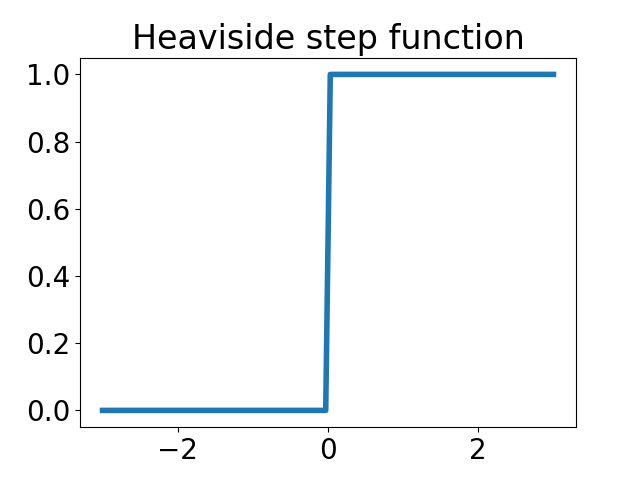
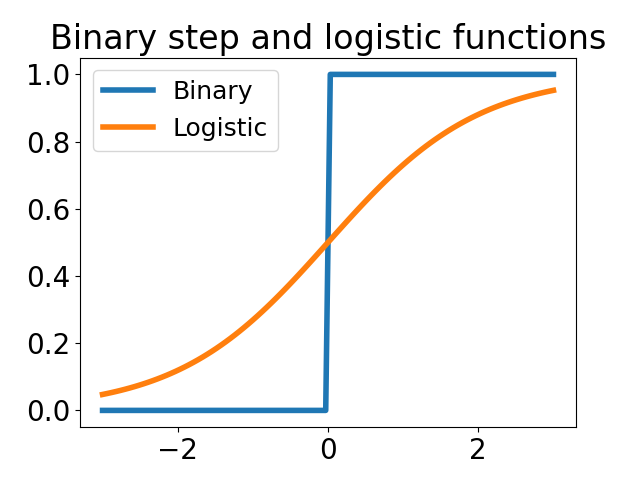
Activations.

diff --git a/differentiable_programs.md b/differentiable_programs.md
@@ -38,6 +38,11 @@ Mathieu Blondel, Vincent Roulet
 - Control flows
   * Step functions
   * Comparison operators
+  * If-else statements
+  * General conditional statements
+  * For loops
+  * Scan function
+  * While loops
 
 ---
 
@@ -67,7 +72,7 @@ $$
 
 ---
 
-## Feedforward networks = parameterized computain chains
+## Feedforward networks = parameterized computation chains
 
 .center.width-100[![](./figures/differentiable_programs/feedforward.png)]
 
@@ -111,6 +116,119 @@ where
 We can see an MLP as a generalized linear model (GLM) <br>
 $\s\_{K-1} \mapsto a\_K(\bm{W}\_K \s\_{K-1} + \bm{b}\_K)$
 on top of a learned representation $\s_{K-1}$.
+
+---
+
+## ReLU and softplus
+
+Many activations are **scalar-to-scalar** functions, applied element-wise.
+
+The ReLU is defined as the non-negative part
+$$
+\mathrm{relu}(u) 
+\coloneqq \max(u, 0) 
+= \begin{cases} 
+u, & u \ge 0 \\\\
+0, & u < 0
+\end{cases}
+$$
+
+The softplus is a smoothed relaxation of the ReLU
+$$
+\mathrm{softplus}(u) \coloneqq \log(1 + e^u)
+$$
+
+<br>
+
+.center.width-50[![](./figures/differentiable_programs/relu.png)]
+
+---
+
+## Max pooling and log-sum-exp
+
+Many activations are **vector-to-scalar** functions: they reduce vectors to a scalar.
+
+Max pooling
+$$
+\max(\u) \coloneqq \max\_{j \in [M]} u\_j
+\in \RR
+$$
+
+Log-sum-exp can be seen as a soft max
+$$
+\mathrm{logsumexp}(\u) \coloneqq 
+\mathrm{softmax}(\u) \coloneqq 
+\log \sum\_{j=1}^M e^{u\_j}
+\in \RR
+$$
+
+<br>
+
+.center.width-50[![](./figures/differentiable_programs/max_heatmap.png)]
+
+---
+
+## Sigmoids: binary step and logistic functions
+
+"S"-shaped functions for squashing $\RR$ to $[0,1]$
+
+Binary step function a.k.a.  Heaviside step function
+$$
+\mathrm{step}(u) \coloneqq
+\begin{cases} 
+1, & u \ge 0 \\\\
+0, & u < 0
+\end{cases}
+\in \\{0,1\\}
+$$
+
+
+Logistic function
+$$
+\mathrm{logistic}(u) 
+\coloneqq \frac{1}{1 + e^{-u}}
+= \frac{e^u}{1 + e^u} \in (0,1)
+$$  
+
+.center.width-50[![](./figures/differentiable_programs/step_function.png)]
+
+---
+
+## Probability mappings: argmax and softargmax
+
+Argmax layer, denoting $\phi(j) \coloneqq \e\_j$
+$$
+\mathrm{argmax}(\u) \coloneqq \phi\left(\argmax\_{j \in [M]} u\_j\right) 
+\in \\{\e\_1, \dots, \e\_M\\}
+$$
+
+
+Softargmax layer
+$$
+\mathrm{softargmax}(\u) \coloneqq \frac{\exp(\u)}{\sum\_{j=1}^M \exp(u\_j)}
+\in \mathrm{relint}(\triangle^M)
+$$
+
+.grid[
+.kol-1-2.left.width-90[
+![](figures/differentiable_programs/3dplot_argmax.png)
+]
+.kol-1-2.center.width-90[
+![](figures/differentiable_programs/3dplot_softargmax.png)
+]
+]
+
+---
+
+class: middle
+
+.center.width-90[![](./figures/differentiable_programs/argmax_heatmap.png)]
+
+---
+
+class: middle
+
+.center.width-70[![](./figures/differentiable_programs/simplex.png)]
 
 ---
 
@@ -175,23 +293,6 @@ Functions and variables are represented by a disjoint set of nodes (bipartite gr
 * Inequality and equality operators
 * Soft relaxations
 * Logical operators
-
----
-
-## Heaviside step function
-
-$$
-\mathrm{step}(u)
-\coloneqq \begin{cases}
-    1 &\text{ if } ~ u \ge 0 \\\\
-    0 &\text{ otherwise } 
-\end{cases}
-$$
-It is a function from $\RR$ to $\\{0,1\\}$.
-
-<br>
-
-.center.width-70[![](./figures/differentiable_programs/step_function.png)]
 
 ---
 
